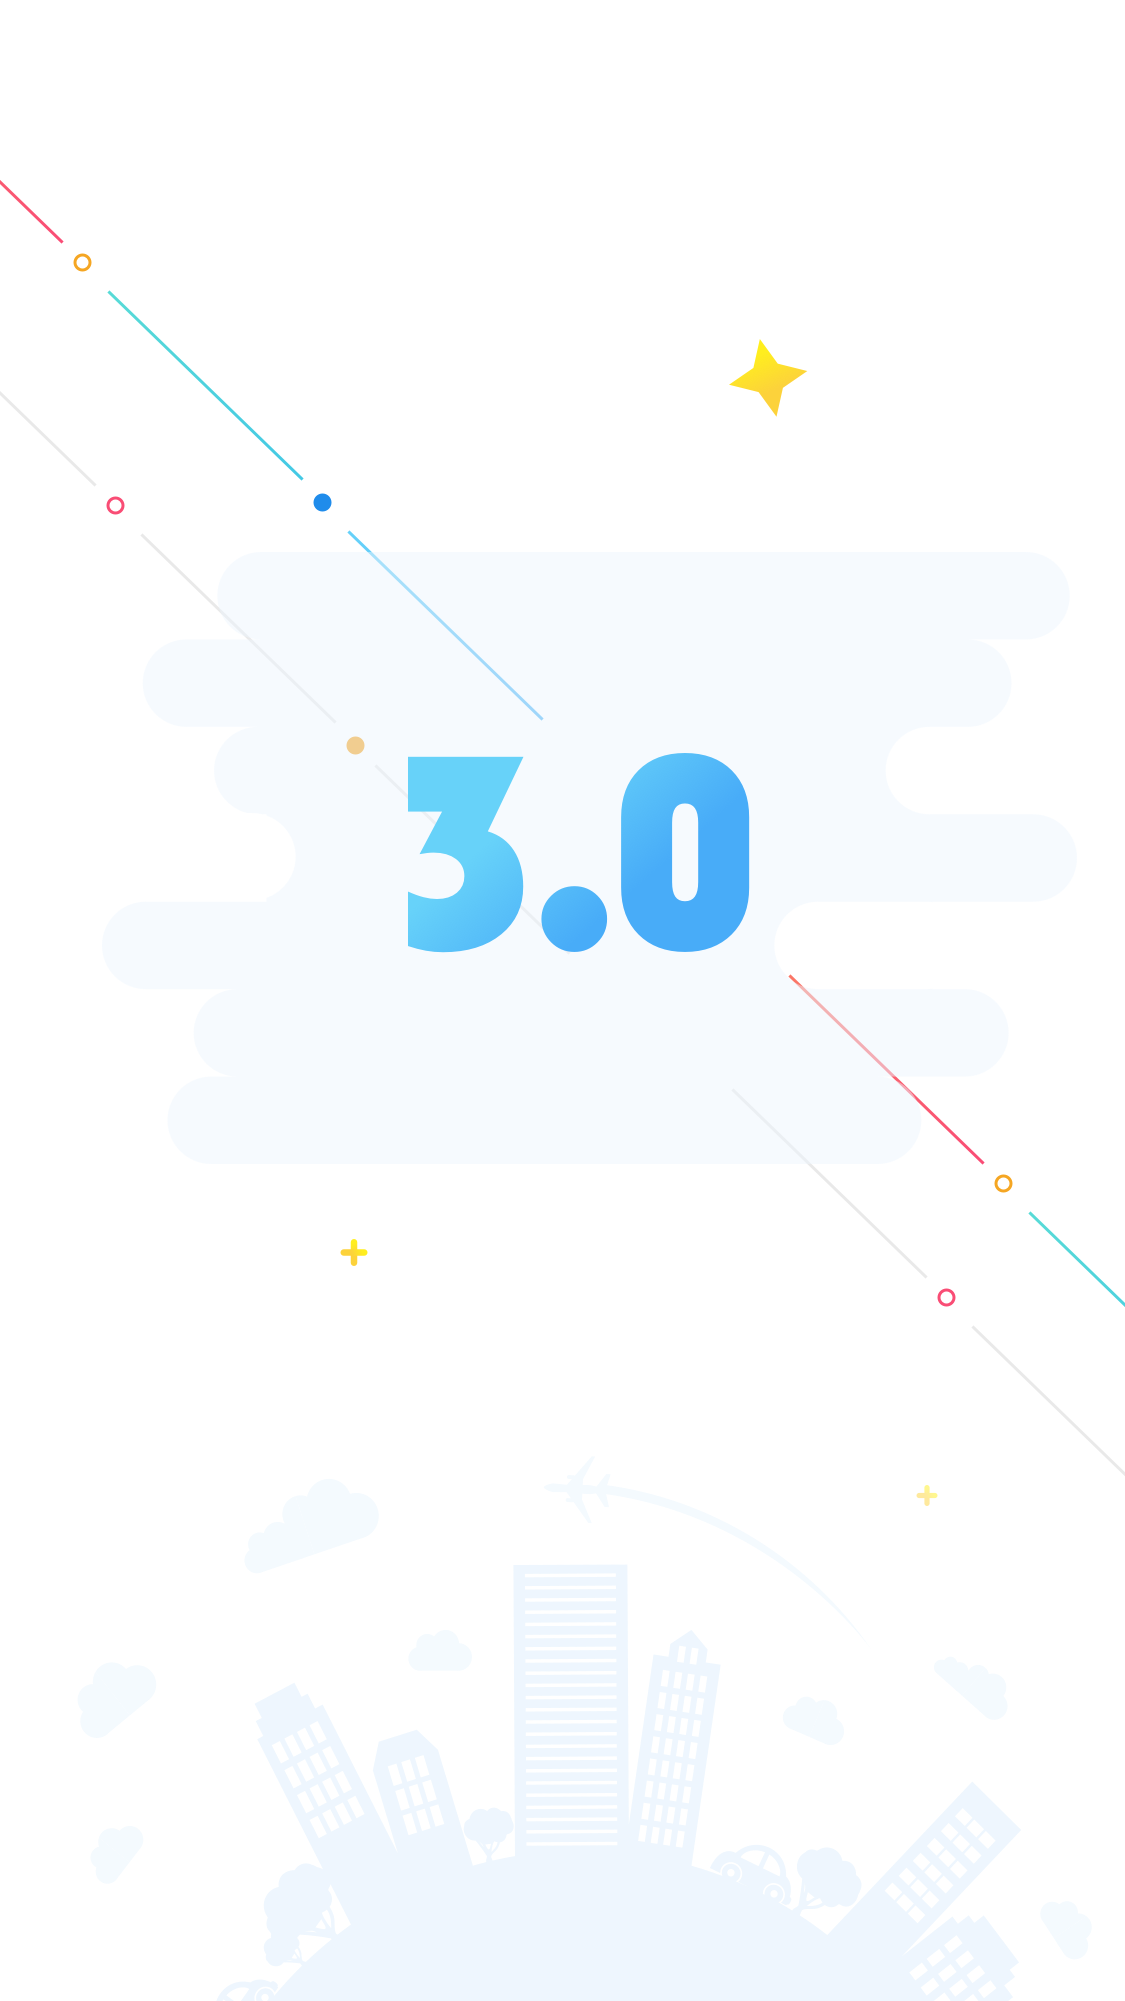
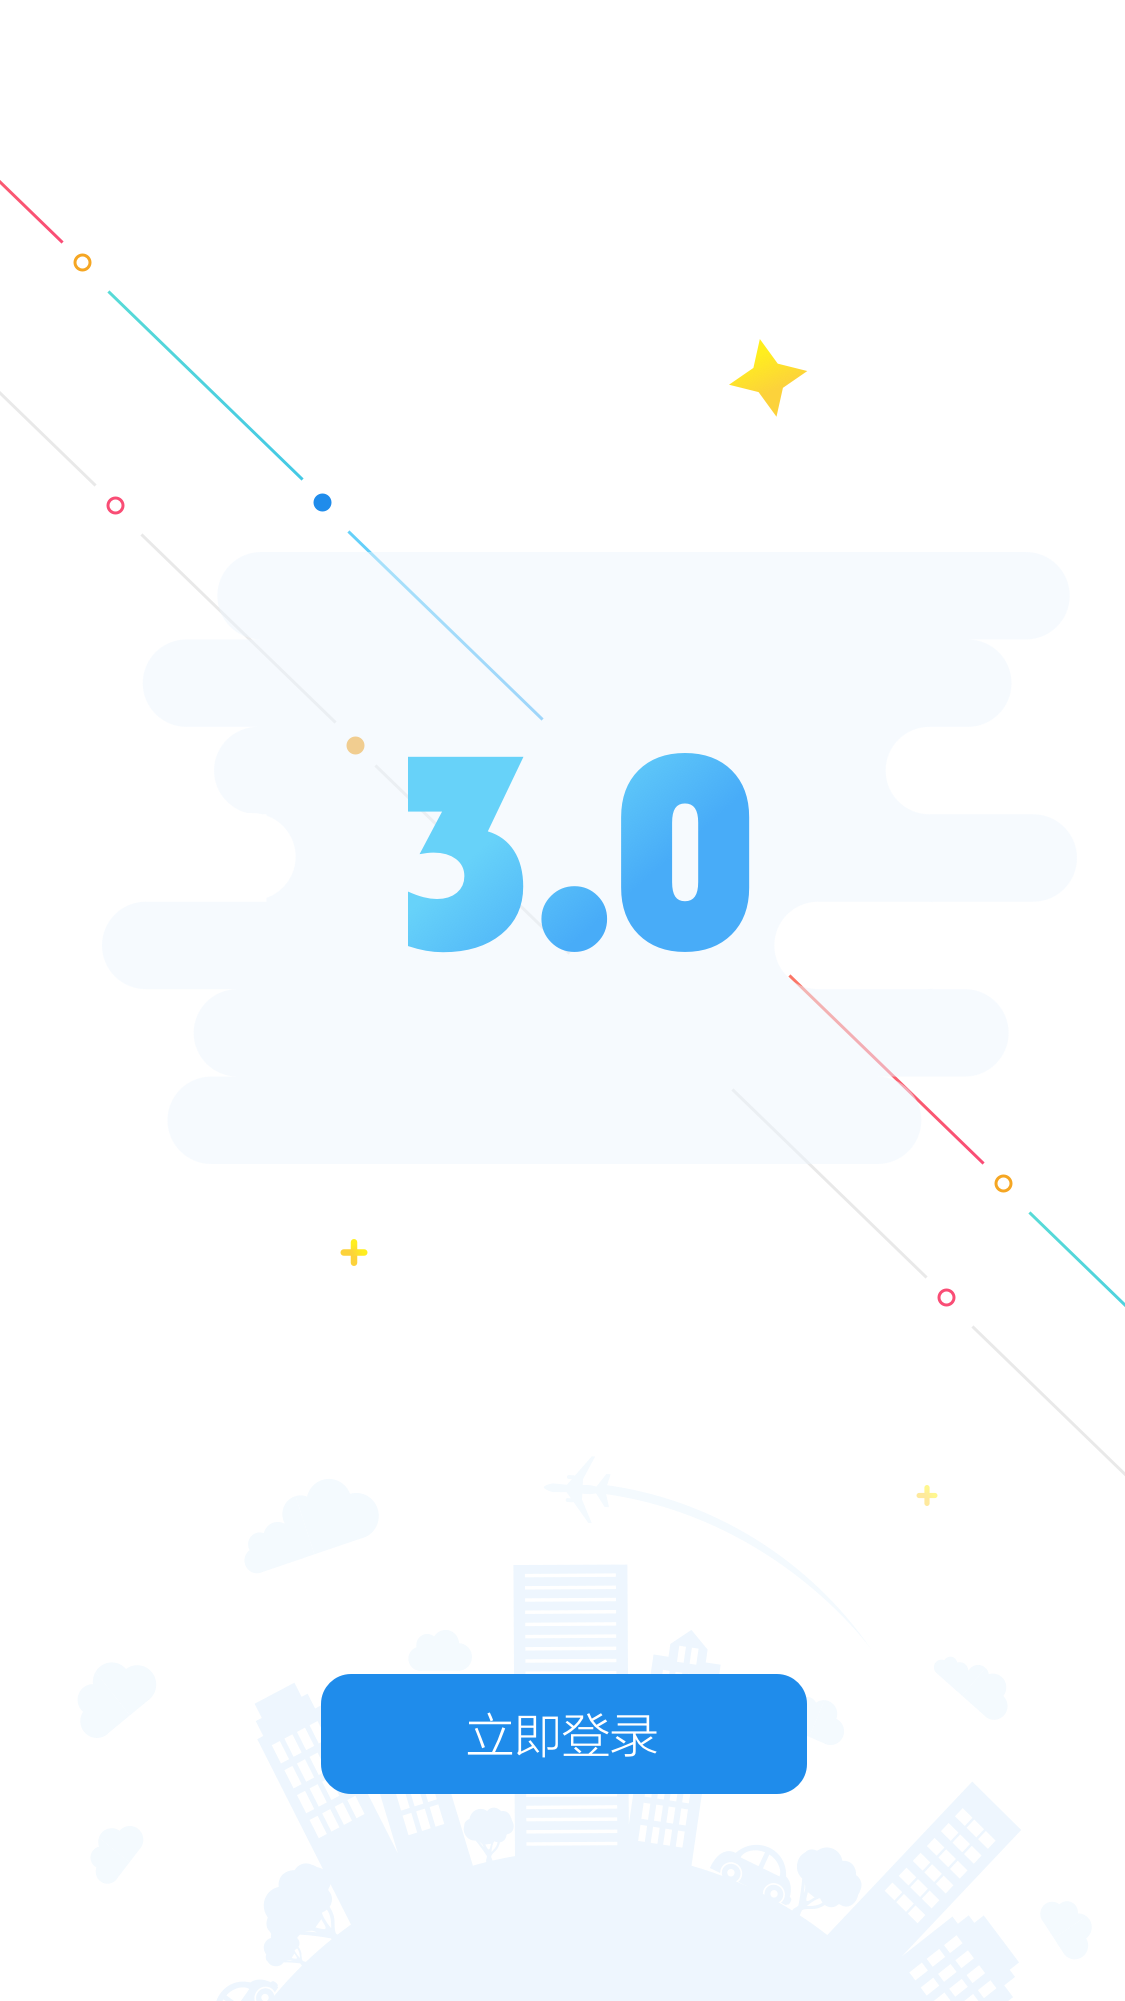
'wkh'

Changed region(s): [[0.28, 0.8366, 0.7156, 0.8986]]

diff --git a/app/app.js b/app/app.js
@@ -367,7 +367,7 @@ angular.module('myApp')
 
           window.localStorage.isHrms2108 = "true";
 
-          $urlRouterProvider.otherwise('/guide');
+          $urlRouterProvider.otherwise('/login');
         }
       }
 

diff --git a/app/pages/guide/guide.scss b/app/pages/guide/guide.scss
@@ -61,7 +61,7 @@
     text-decoration: none;
     opacity: 0.3;
   }
- 
+
   .slider-pager .slider-pager-page.active {
     -webkit-transition: opacity .4s ease-in;
     transition: opacity .4s ease-in;
